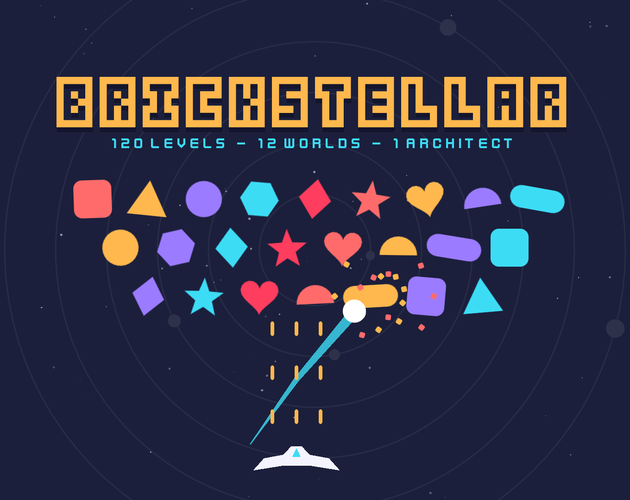
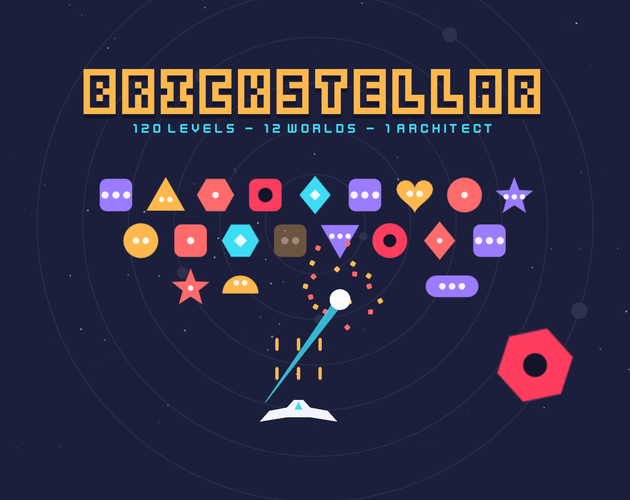
docs: Cover art shows real brick types (pips, bomb, energy, phantom, boss)
- Cover scene instantiates the game's brick scene, so the art matches play
- Boss moved to the bottom-right; re-rendered at Retina resolution
- Updated re-render instructions in docs/itch_page.md

diff --git a/docs/itch_page.md b/docs/itch_page.md
@@ -62,4 +62,8 @@ Music and sound effects: CC0 (Shapeforms Audio, Space Music Pack and CC0 music l
 | `screenshot_5.jpg` | Level editor |
 | `screenshot_6.jpg` | Final boss: THE ARCHITECT |
 
-Re-render the cover after changing it: `godot --write-movie <out>.png --fixed-fps 30 --quit-after 12 res://tools/cover/cover.tscn`, then crop the centered 1360x1080 frame and scale to 630x500.
+Re-render the cover after changing `tools/cover/cover.gd`: run the scene in a window
+(e.g. a tiny script that instantiates `res://tools/cover/cover.tscn`, waits a second and saves
+`get_viewport().get_texture().get_image()`), then crop the centered 1.26:1 frame from the
+saved image and scale it to 1260x1000 (`cover@2x.png`) and 630x500 (`cover.png`).
+The cover uses the real brick scene, so it always matches the in-game look.
